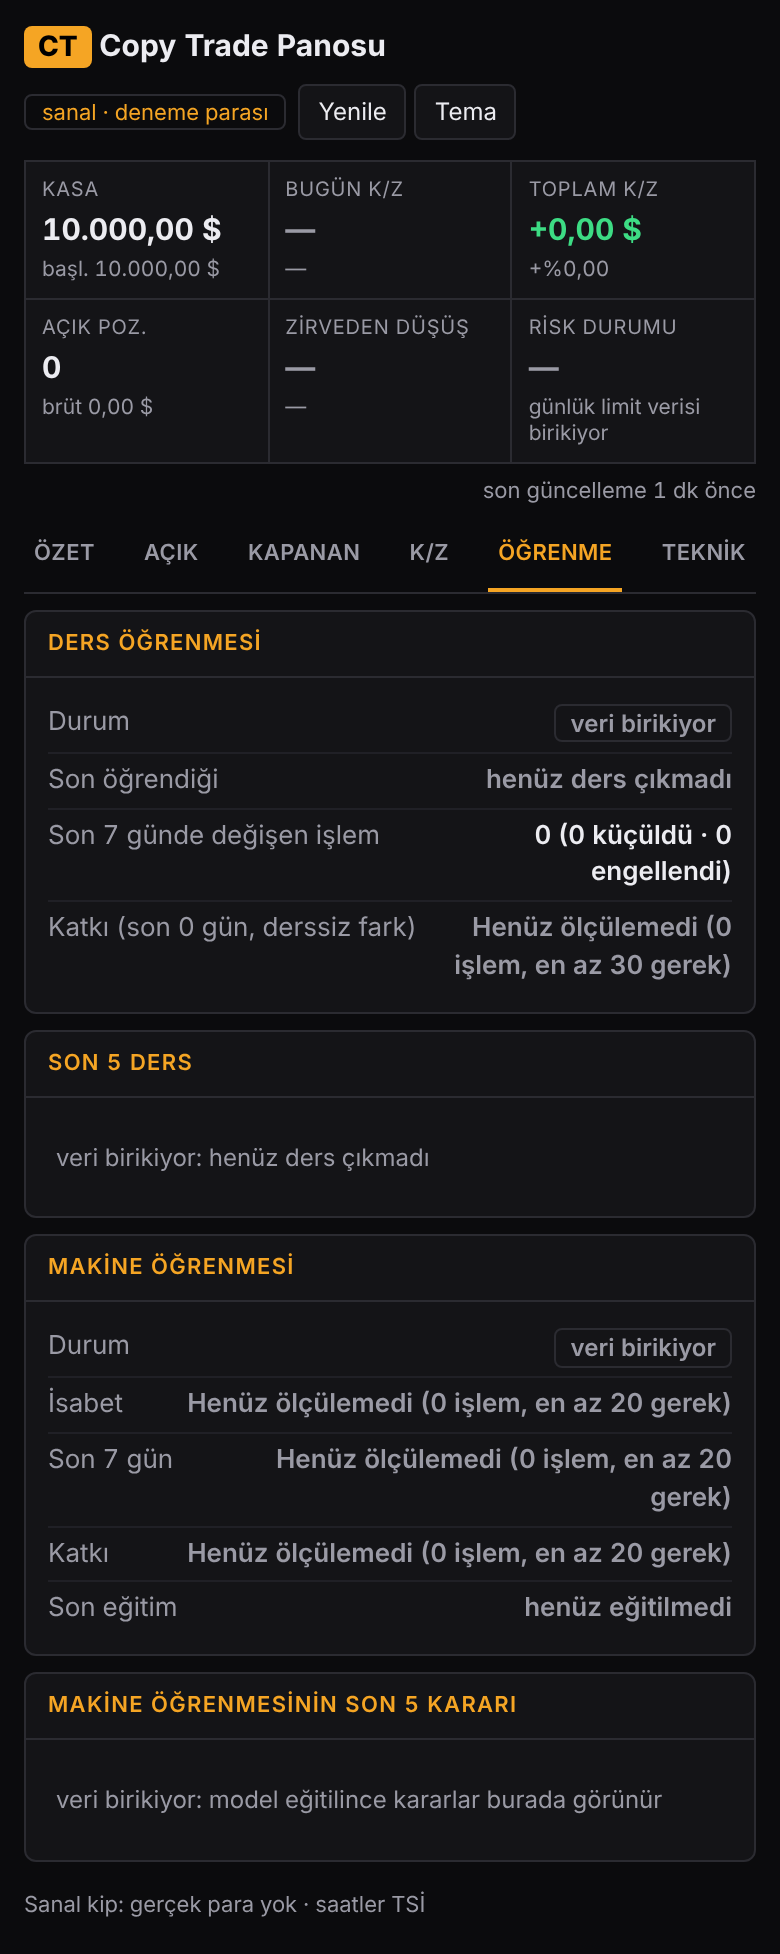
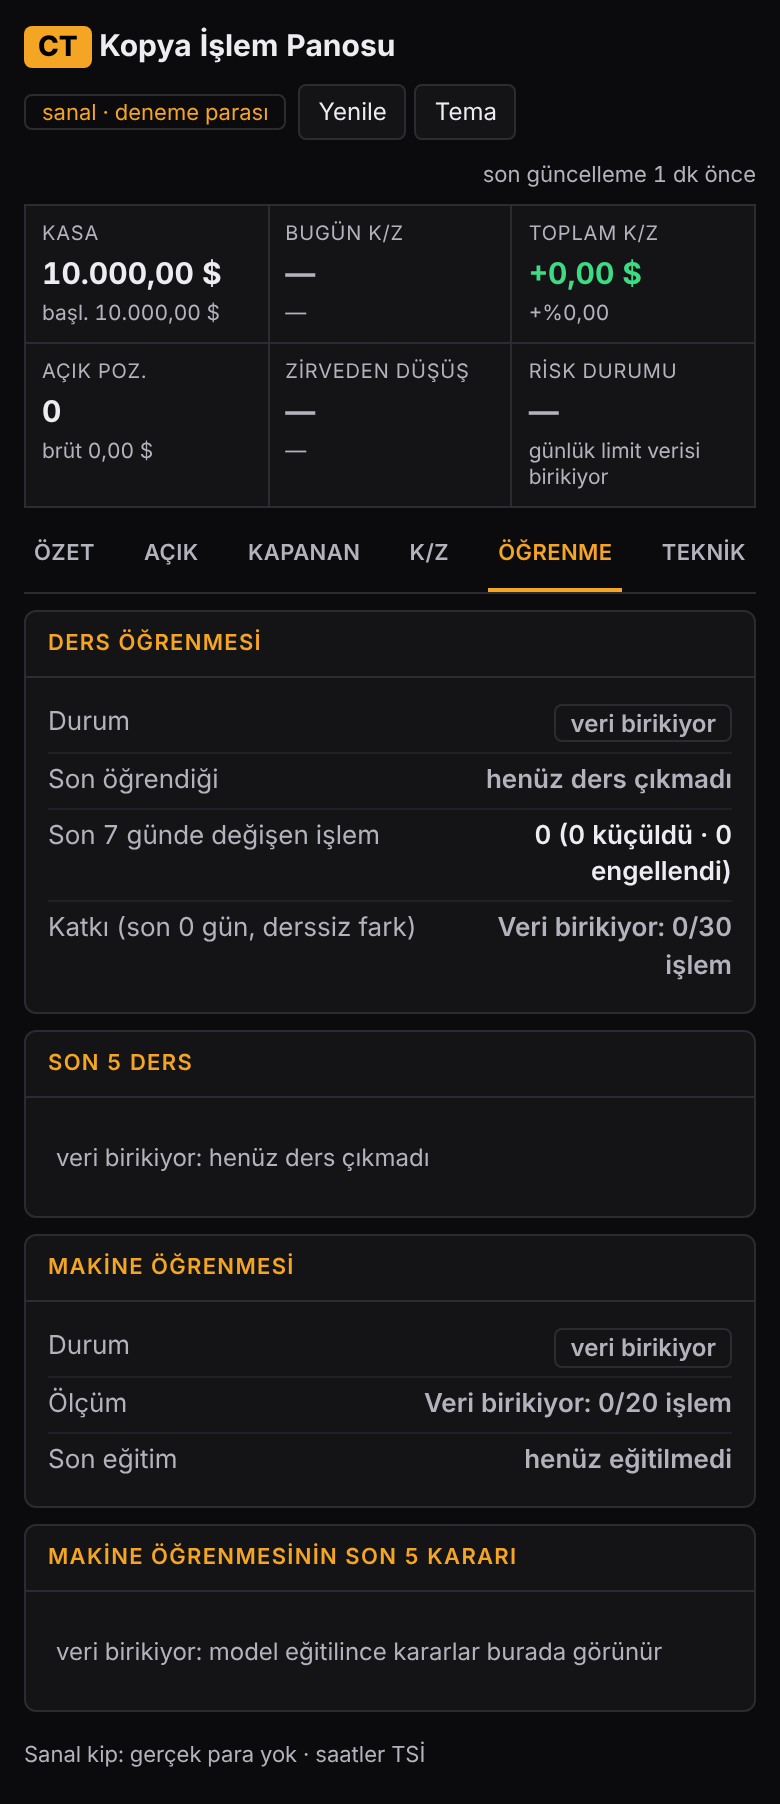
Pano v2 ekran görüntüleri: danışman düzeltmeleri sonrası
Claude-Session: https://claude.ai/code/session_011HUfhKz2GM99grXFtQTdYL

diff --git a/README.md b/README.md
@@ -1,1 +1,1 @@
-Pano v2 ekran görüntüleri (denetim için; main'e girmez). Kod: claude/ct-pano-v2 c21fa7f3.
+Pano v2 ekran görüntüleri (denetim için; main'e girmez). Kod: claude/ct-pano-v2 c9e6ca83.
